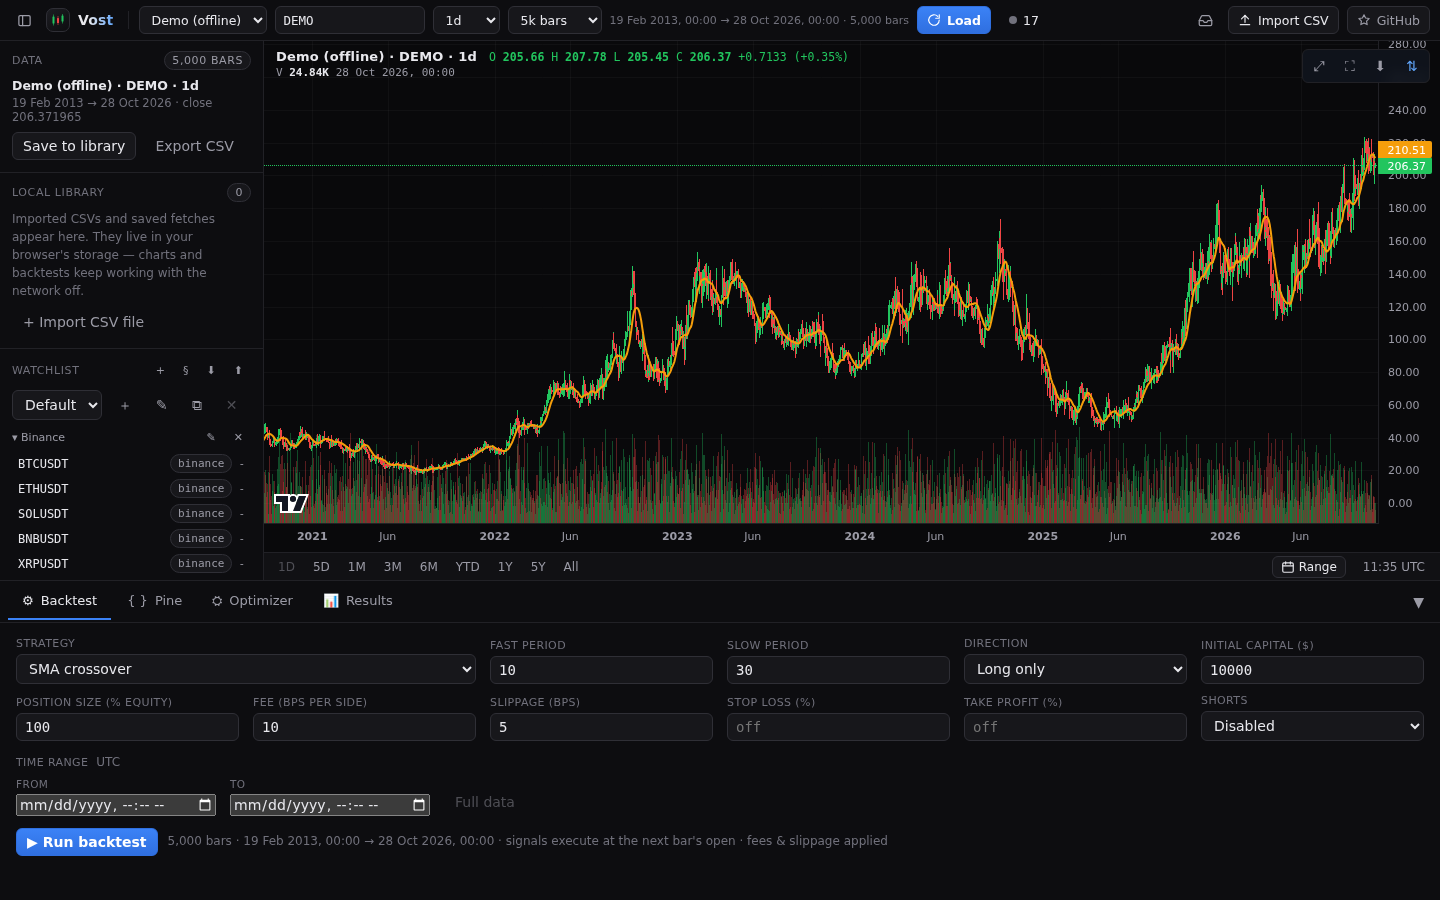
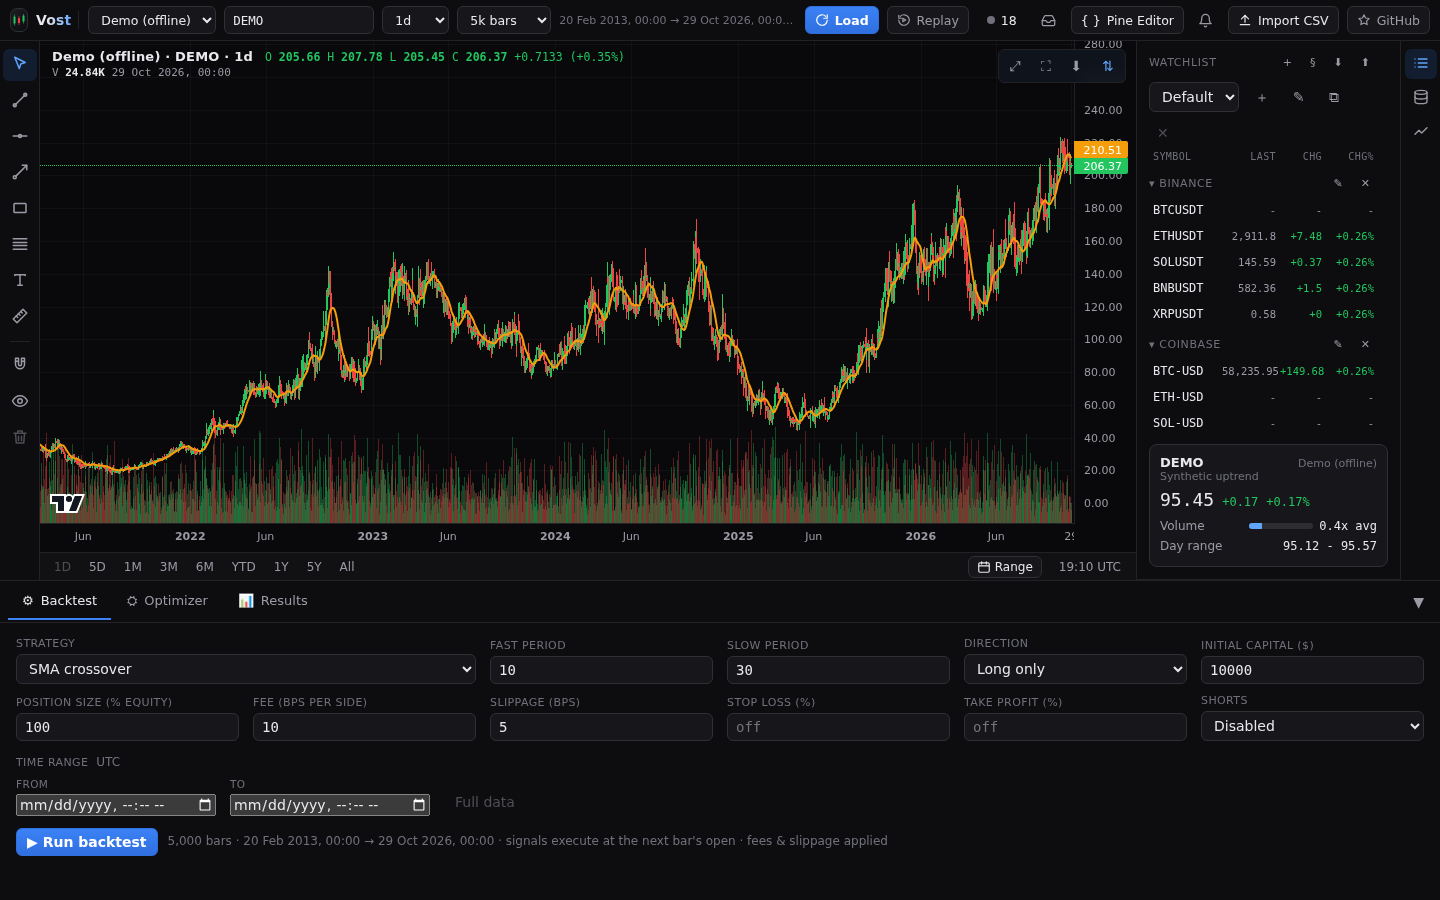
Keep the complete first in-span built bar after a session gap, cache the session calendar, name the base timeframe in the picker, add Binance parity fixtures

diff --git a/shared/timeframes.test.ts b/shared/timeframes.test.ts
@@ -1,6 +1,7 @@
+import { readFileSync } from 'node:fs';
 import { describe, expect, it } from 'vitest';
 import { PROVIDER_CATALOG, catalogEntry } from './providerCatalog.ts';
-import type { Candle, Timeframe } from './market.ts';
+import { TIMEFRAME_SECONDS, type Candle, type Timeframe } from './market.ts';
 import { UTC_CALENDAR, baseTimeframe, bucketStart, buildBars, builtTimeframes, type Calendar } from './timeframes.ts';
 
 const ts = (iso: string): number => Date.parse(iso) / 1000;
@@ -182,4 +183,33 @@ describe('parity with native bars', () => {
     expect(buildBars(daily, '1w')).toEqual(naive(daily, (t) => start + Math.floor((t - start) / 604800) * 604800));
     expect(buildBars(daily, '1M')).toEqual(naive(daily, monthKey));
   });
+});
+
+describe('parity with real Binance bars', () => {
+  const fx = JSON.parse(readFileSync(new URL('./fixtures/binance-btcusdt.json', import.meta.url), 'utf8')) as Record<'hourly' | 'h4' | 'daily' | 'weekly' | 'monthly', number[][]>;
+  const candles = (rows: number[][]): Candle[] => rows.map(([time, open, high, low, close, volume]) => ({ time, open, high, low, close, volume }));
+
+  /** Built bars that cover whole buckets of the base data must equal the exchange's bars exactly. */
+  function expectParity(baseRows: number[][], nativeRows: number[][], target: Timeframe): void {
+    const base = candles(baseRows);
+    const lastBase = base[base.length - 1].time;
+    const lastNative = nativeRows[nativeRows.length - 1][0];
+    // Only the oldest and newest buckets can be partial.
+    const built = buildBars(base, target).slice(1).filter((b) => b.time < lastNative || bucketEnd(b.time, target) <= lastBase + 1);
+    expect(built.length).toBeGreaterThan(3);
+    const nativeByTime = new Map(candles(nativeRows).map((c) => [c.time, c]));
+    for (const b of built) {
+      const n = nativeByTime.get(b.time)!;
+      const at = new Date(b.time * 1000).toISOString();
+      // Prices are exact; the volume is a float sum, equal up to rounding.
+      expect({ ...b, volume: 0 }, at).toEqual({ ...n, volume: 0 });
+      expect(Math.abs(b.volume - n.volume) / n.volume, at).toBeLessThan(1e-12);
+    }
+  }
+  const bucketEnd = (start: number, target: Timeframe): number =>
+    target === '1w' ? start + 7 * 86400 : target === '1M' ? Date.UTC(new Date(start * 1000).getUTCFullYear(), new Date(start * 1000).getUTCMonth() + 1, 1) / 1000 : start + TIMEFRAME_SECONDS[target];
+
+  it('1h built into 4h equals Binance 4h', () => expectParity(fx.hourly, fx.h4, '4h'));
+  it('1d built into 1w equals Binance 1w', () => expectParity(fx.daily, fx.weekly, '1w'));
+  it('1d built into 1M equals Binance 1M', () => expectParity(fx.daily, fx.monthly, '1M'));
 });

diff --git a/server/providers/built.ts b/server/providers/built.ts
@@ -5,7 +5,7 @@
  * from the candle store), newest chunk first, and are aggregated here.
  *
  * No partial bar passes as complete: the oldest bucket present in the base data
- * is dropped, so every built bar except the newest (the forming bar, as with
+ * is dropped unless the data starts at its start, so every built bar except the newest (the forming bar, as with
  * native bars) covers its whole bucket.
  */
 import { MAX_BARS, TIMEFRAME_SECONDS, type Candle, type Timeframe } from '../../shared/market.ts';
@@ -23,6 +23,8 @@ export interface BuiltDeps {
   /** One base-timeframe history call; the adapter may report its calendar through `onCalendar`. */
   fetchBase(req: HistoryRequest, onCalendar: (calendar: Calendar) => void): Promise<Candle[]>;
   now?: () => number;
+  /** The calendar last reported for this series, used until a fetch reports one (a series served from the store reports none). */
+  calendar?: Calendar;
 }
 
 function merge(chunks: Candle[][]): Candle[] {
@@ -42,7 +44,7 @@ export async function builtHistory(deps: BuiltDeps, native: readonly Timeframe[]
   if (!base) throw new Error(`${target} cannot be built from ${native.join(', ')}`);
   const baseSeconds = TIMEFRAME_SECONDS[base];
   const nowSec = Math.floor((deps.now ?? Date.now)() / 1000);
-  let calendar: Calendar = UTC_CALENDAR;
+  let calendar: Calendar = deps.calendar ?? UTC_CALENDAR;
   const onCalendar = (c: Calendar): void => {
     calendar = c;
   };
@@ -88,8 +90,11 @@ export async function builtHistory(deps: BuiltDeps, native: readonly Timeframe[]
     }
   }
 
-  // The oldest bucket present may be partial: drop it.
-  let built = buildBars(merge(chunks), target, calendar).slice(1);
+  // The oldest bucket present is partial unless the base data starts exactly at its start (the window can cut it
+  // anywhere); a bucket the data starts at is complete, which keeps the first in-span bar after a weekend or holiday gap.
+  const base0 = merge(chunks);
+  let built = buildBars(base0, target, calendar);
+  if (built.length > 0 && base0[0].time !== built[0].time) built = built.slice(1);
   built = req.from !== undefined ? cropToSpan(built, req.from, req.to) : built.slice(-req.bars);
   if (built.length === 0) {
     throw new NotFoundError(`No ${target} bars for ${req.symbol}: not enough ${base} data to build a complete bar.`);

diff --git a/server/providers/built.test.ts b/server/providers/built.test.ts
@@ -86,6 +86,30 @@ describe('Yahoo calendar', () => {
     expect(out.map((b) => b.volume)).toEqual([4, 3, 4, 3]); // 9:30-13:30 holds four hourly bars, 13:30-16:00 three
   });
 
+  describe('with a weekend gap before the span', () => {
+    const fri = Date.parse('2024-03-15T13:30:00Z') / 1000;
+    const mon = Date.parse('2024-03-18T13:30:00Z') / 1000;
+    const session = [0, 1, 2, 3, 4, 5, 6].map((i) => i * 3600);
+    const base = [...session.map((o) => bar(fri + o)), ...session.map((o) => bar(mon + o))];
+    const calendar = sessionCalendar(meta)!;
+    const range = { symbol: 'AAPL', timeframe: '4h' as const, bars: 100, from: mon, to: mon + 6.5 * 3600 };
+
+    it('keeps the complete in-span bar of the first session in range mode', async () => {
+      const fetchBase = async (req: HistoryRequest, onCalendar: (c: typeof calendar) => void): Promise<Candle[]> => {
+        onCalendar(calendar);
+        return base.filter((c) => c.time >= req.from! && c.time <= req.to!);
+      };
+      const out = await builtHistory({ fetchBase }, ['1h'], range);
+      expect(out.map((b) => [b.time, b.volume])).toEqual([[mon, 4], [mon + 4 * 3600, 3]]);
+    });
+
+    it('buckets by the session calendar it was given when the base bars report none (served from the store)', async () => {
+      const fetchBase = async (req: HistoryRequest): Promise<Candle[]> => base.filter((c) => c.time >= req.from! && c.time <= req.to!);
+      const out = await builtHistory({ fetchBase, calendar }, ['1h'], range);
+      expect(out.map((b) => [b.time, b.volume])).toEqual([[mon, 4], [mon + 4 * 3600, 3]]);
+    });
+  });
+
   it('starts a bars-with-to hourly window at the edge of Yahoo depth and reports nothing before it', async () => {
     const now = Math.floor(Date.now() / 1000);
     const fake = fakeFetch(() => ({ chart: { result: [{ timestamp: [now - 3600], indicators: { quote: [{ open: [1], high: [2], low: [0], close: [1], volume: [1] }] } }], error: null } }));

diff --git a/server/api.ts b/server/api.ts
@@ -16,6 +16,7 @@ import { sendJson } from './respond.ts';
 import type { CandleStore } from './candles/store.ts';
 import { readThroughHistory } from './candles/history.ts';
 import { builtHistory } from './providers/built.ts';
+import type { Calendar } from '../shared/timeframes.ts';
 
 export interface ApiDeps {
   /** Defaults to `globalThis.fetch`. */
@@ -81,11 +82,19 @@ function history(deps: ApiDeps, id: string, ctx: AdapterContext, adapter: Provid
   );
 }
 
+/** The calendar each built series last reported (`provider:symbol`), for when the base bars come from the candle store and no fetch reports one. */
+const calendars = new Map<string, Calendar>();
+
 /** One history request for `timeframe`: native as it is, built from the provider's lower native timeframe. */
 function timeframeHistory(deps: ApiDeps, info: ProviderInfo, ctx: AdapterContext, adapter: ProviderAdapter, req: HistoryRequest): Promise<Candle[]> {
   if (info.timeframes.includes(req.timeframe)) return history(deps, info.id, ctx, adapter, req);
+  const key = `${info.id}:${req.symbol}`;
   return builtHistory(
-    { fetchBase: (baseReq, onCalendar) => history(deps, info.id, { ...ctx, onCalendar }, adapter, baseReq) },
+    {
+      fetchBase: (baseReq, onCalendar) =>
+        history(deps, info.id, { ...ctx, onCalendar: (c) => { calendars.set(key, c); onCalendar(c); } }, adapter, baseReq),
+      calendar: calendars.get(key),
+    },
     info.timeframes,
     req,
   );

diff --git a/client/src/components/TopBar.tsx b/client/src/components/TopBar.tsx
@@ -5,6 +5,7 @@ import { topbarTier } from '../lib/paneSizes';
 import { useViewportSize } from '../lib/useViewportSize';
 import { getProvider, providers } from '../lib/providers';
 import { TIMEFRAMES } from '../types';
+import { baseTimeframe } from '../../../shared/timeframes.ts';
 import { unreadCount } from '../lib/messages';
 import { useAlerts } from '../state/alerts';
 import { selectDataCandles, useStore } from '../state/store';
@@ -67,6 +68,7 @@ export function TopBar({
 
   const provider = getProvider(providerId);
   const timeframes = TIMEFRAMES.filter((tf) => provider.timeframes.includes(tf));
+  const nativeTimeframes = timeframes.filter((tf) => !provider.builtTimeframes?.includes(tf));
 
   const liveClass = liveStatus === 'live' ? '' : liveStatus === 'connecting' || liveStatus === 'reconnecting' ? 'connecting' : 'error';
 
@@ -169,7 +171,7 @@ export function TopBar({
           title="Timeframe"
         >
           {timeframes.map((tf) => (
-            <option key={tf} value={tf} title={provider.builtTimeframes?.includes(tf) ? 'Built from a lower timeframe' : undefined}>
+            <option key={tf} value={tf} title={provider.builtTimeframes?.includes(tf) ? `Built from ${baseTimeframe(nativeTimeframes, tf) ?? 'a lower timeframe'}` : undefined}>
               {provider.builtTimeframes?.includes(tf) ? `${tf} *` : tf}
             </option>
           ))}

diff --git a/server/api.test.ts b/server/api.test.ts
@@ -384,9 +384,9 @@ describe('built timeframes', () => {
     const to = (days - 1) * 86400;
     const r = await get(`/api/history?provider=coinbase&symbol=BTC-USD&timeframe=1M&bars=800&to=${to}`);
     expect(r.status).toBe(200);
-    expect(r.body.length).toBeGreaterThan(660); // 56 years of months, minus the dropped oldest and the partial newest
+    expect(r.body.length).toBeGreaterThan(660); // 56 years of months, minus the partial newest
     expect(times(r.body)).toEqual([...new Set(times(r.body))].sort((a, b) => a - b));
-    expect(r.body[0].time).toBe(Date.UTC(1970, 1, 1) / 1000); // January 1970 is the oldest bucket, dropped
+    expect(r.body[0].time).toBe(0); // the series starts at the start of January 1970, so that oldest bucket is complete and kept
     expect(new Date(r.body[r.body.length - 1].time * 1000).getUTCDate()).toBe(1);
   });
 

diff --git a/shared/fixtures/README.md b/shared/fixtures/README.md
@@ -1,0 +1,6 @@
+# Fixtures
+
+`binance-btcusdt.json`: real Binance BTCUSDT klines (`[time, open, high, low, close, volume]`, time in unix seconds)
+fetched from `GET /api/v3/klines` with `endTime` 2026-08-31T23:59:59Z: `hourly` (1h) with the exchange's own `h4` (4h),
+and `daily` (1d) with the exchange's own `weekly` (1w) and `monthly` (1M). Used by `shared/timeframes.test.ts` to
+check that built bars equal the exchange's native bars.
